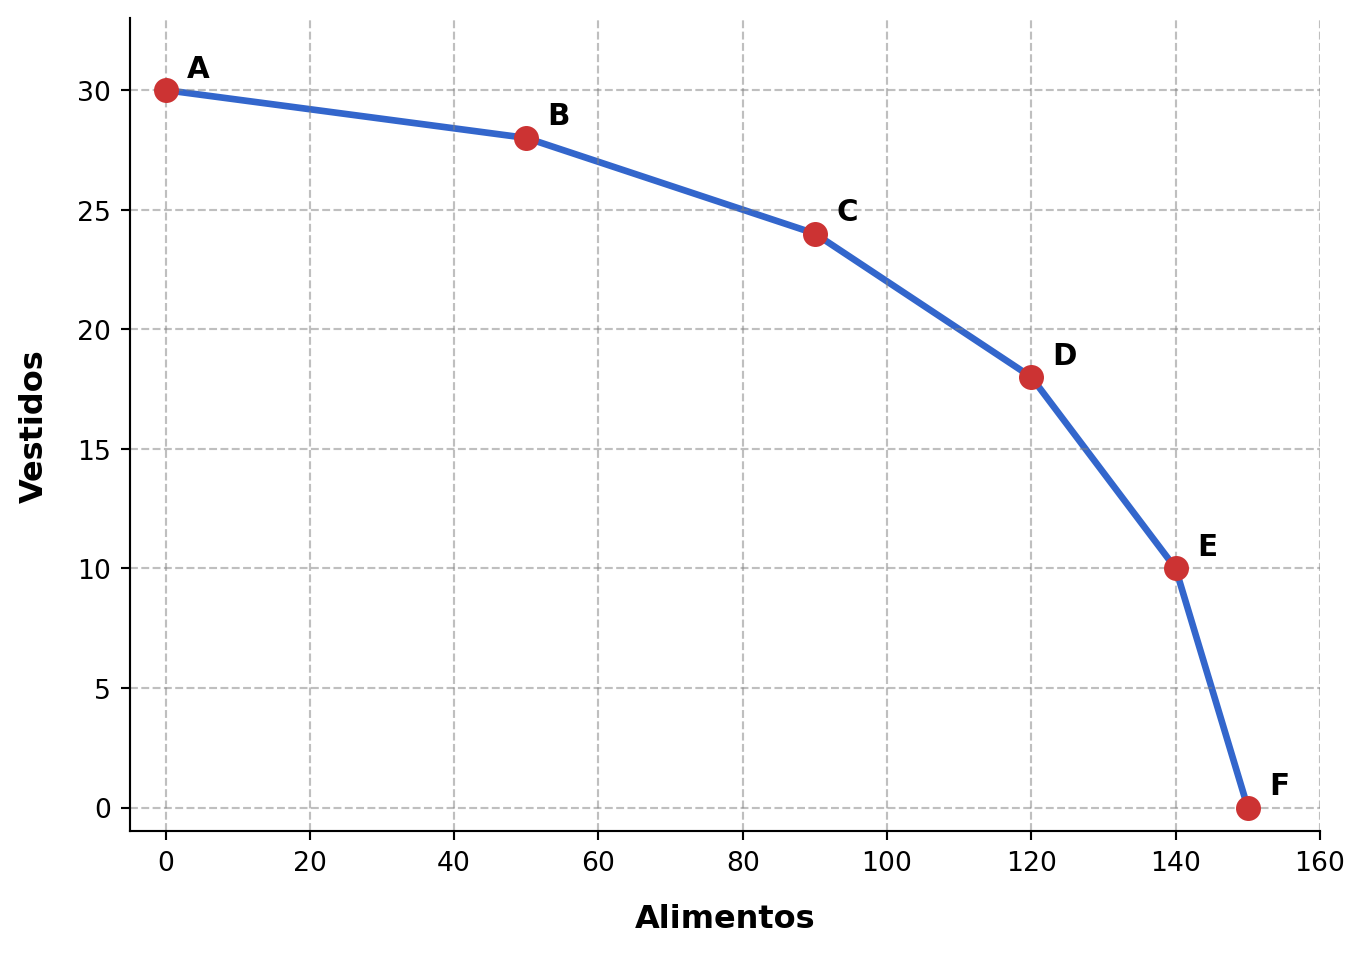
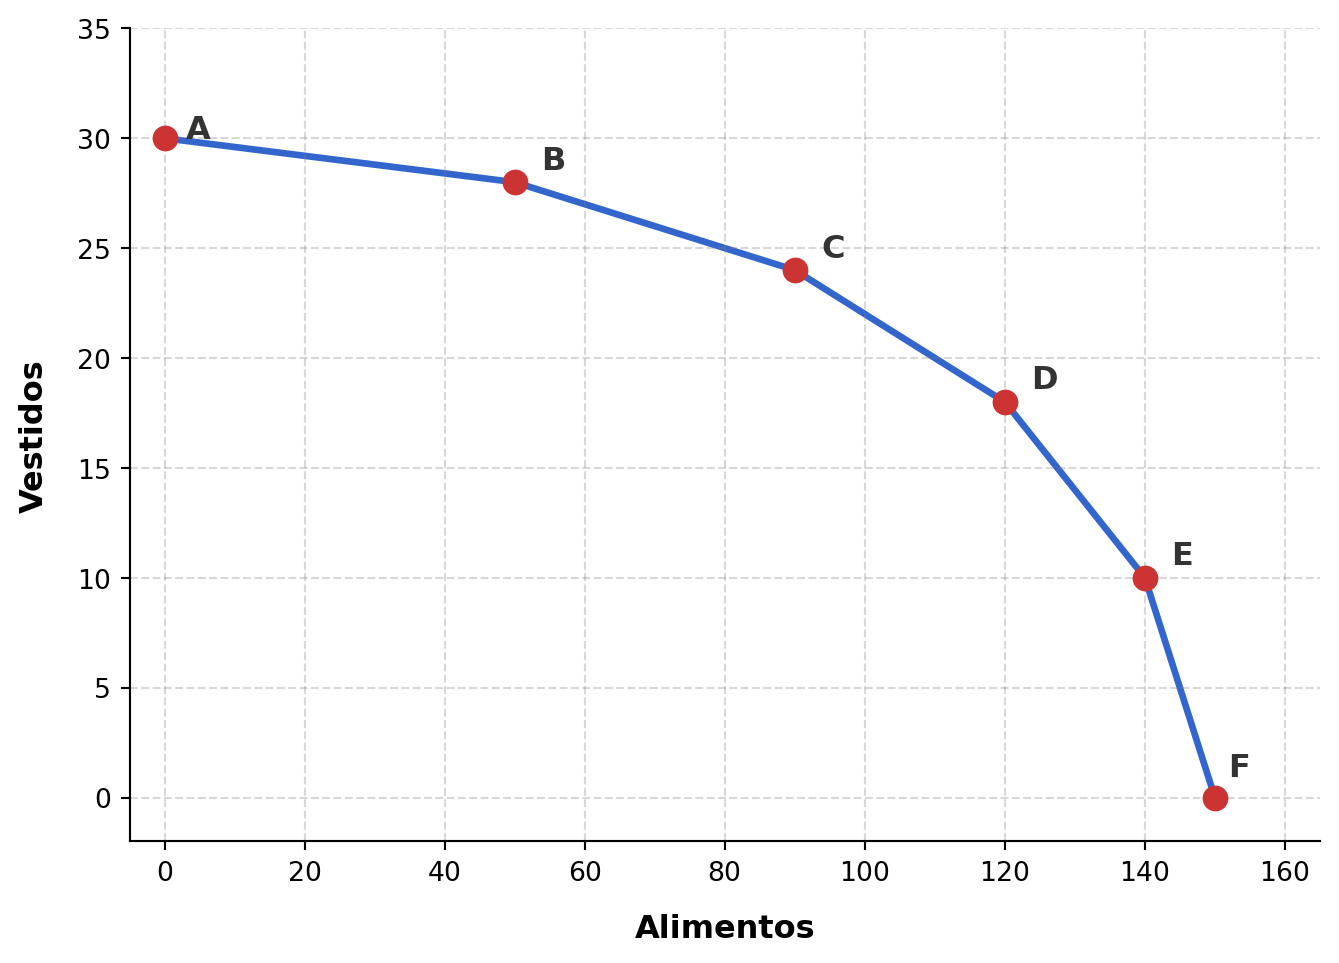
Built site for gh-pages

diff --git a/intro.html b/intro.html
@@ -596,7 +596,7 @@ Tabla&nbsp;1.3: Posibilidades de producción de alimentos y vestidos
 <div id="fig-fpp-grafico" class="quarto-float quarto-figure quarto-figure-center anchored">
 <figure class="quarto-float quarto-float-fig figure">
 <div aria-describedby="fig-fpp-grafico-caption-0ceaefa1-69ba-4598-a22c-09a6ac19f8ca">
-<img src="intro_files/figure-html/fig-fpp-grafico-output-1.png" width="682" height="477" class="figure-img">
+<img src="intro_files/figure-html/fig-fpp-grafico-output-1.png" width="670" height="482" class="figure-img">
 </div>
 <figcaption class="quarto-float-caption-bottom quarto-float-caption quarto-float-fig" id="fig-fpp-grafico-caption-0ceaefa1-69ba-4598-a22c-09a6ac19f8ca">
 Figura&nbsp;1.1: Representación gráfica de la Frontera de Posibilidades de Producción (FPP)
